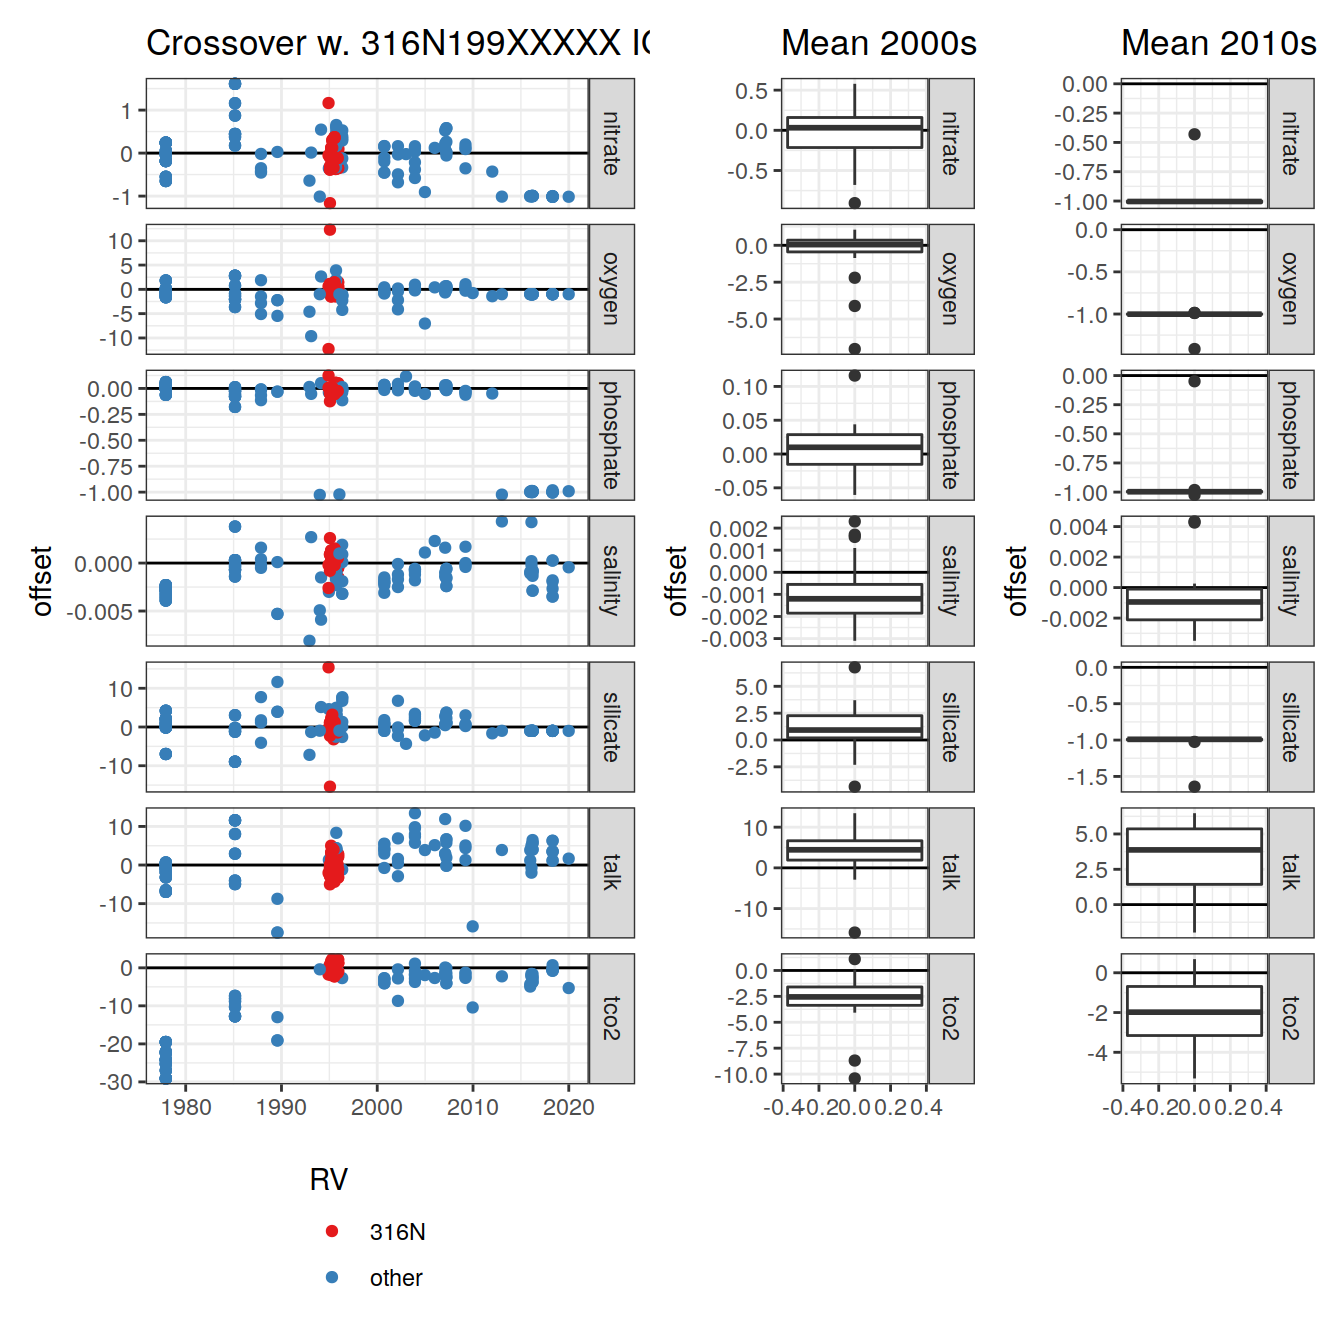
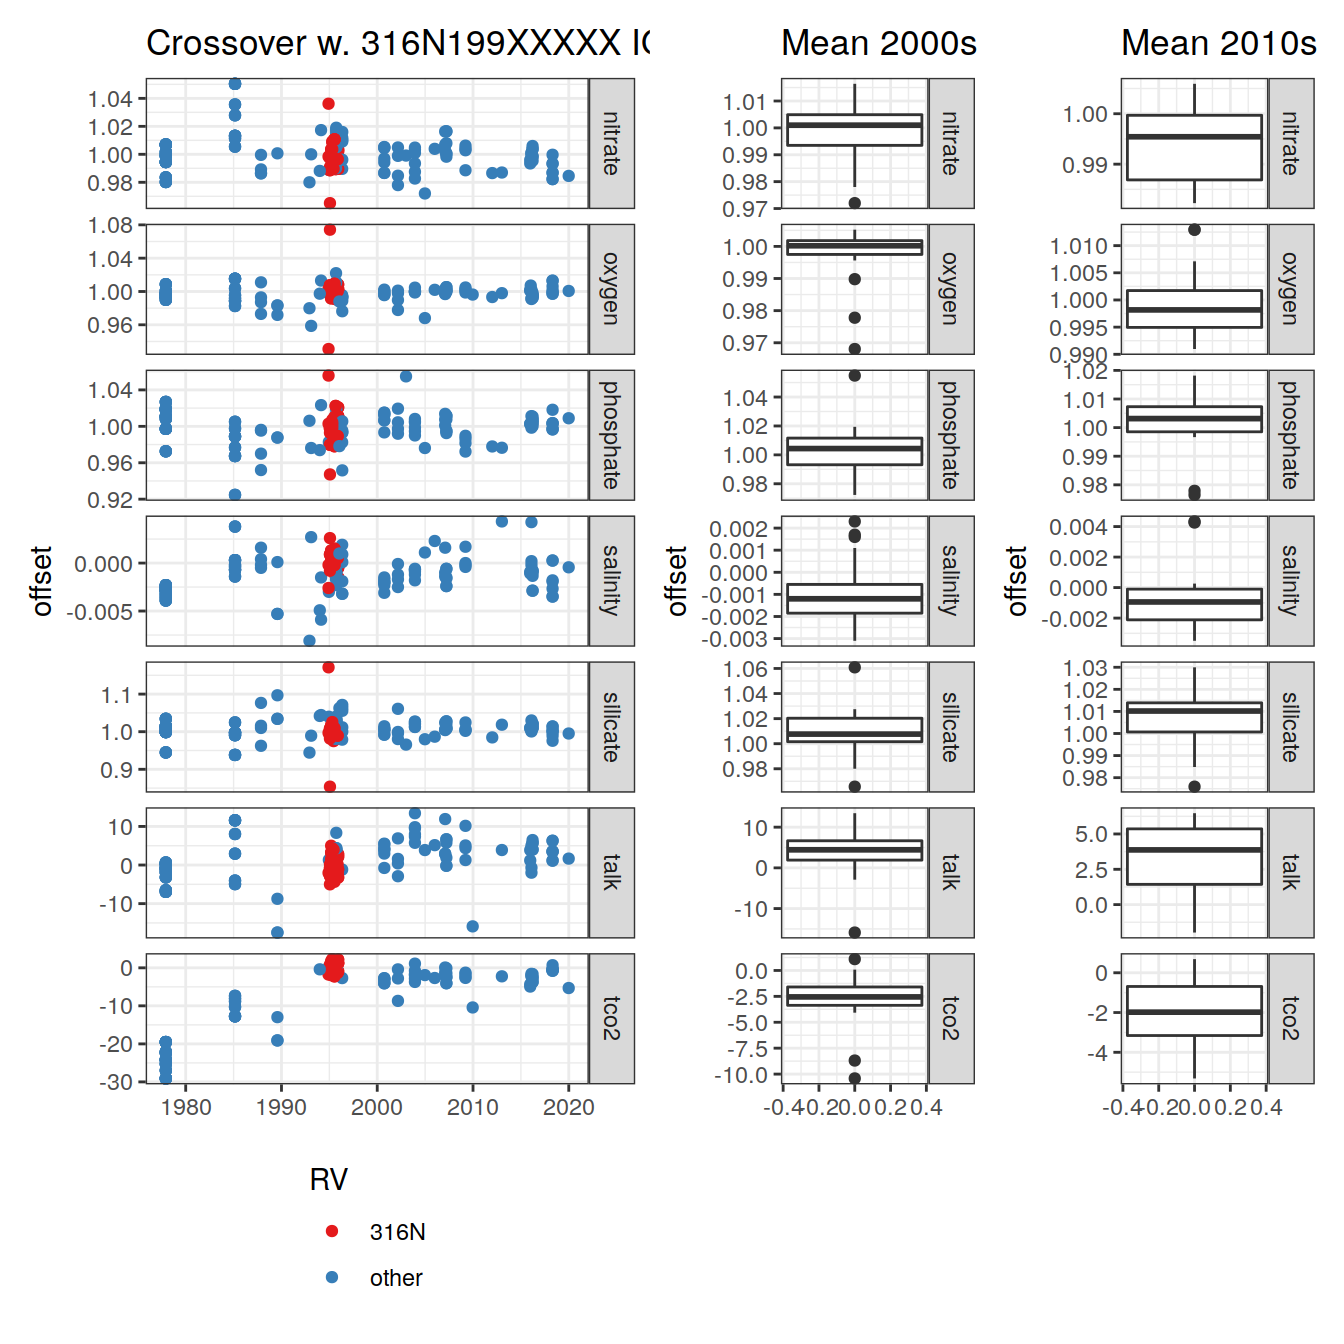
Build site.

diff --git a/docs/eMLR_data_preparation.html b/docs/eMLR_data_preparation.html
@@ -577,16 +577,16 @@ This reproducible <a href="http://rmarkdown.rstudio.com">R Markdown</a> analysis
 <div class="panel panel-default">
 <div class="panel-heading">
 <p class="panel-title">
-<a data-toggle="collapse" data-parent="#workflowr-checks" href="#strongRepositoryversionstrongahrefhttpsgithubcomjensdanielmuelleremlrobsvXXXtreeb60ab10c82c54f47ab30df260e1aa334e2e8d722targetblankb60ab10a"> <span class="glyphicon glyphicon-ok text-success" aria-hidden="true"></span> <strong>Repository version:</strong> <a href="https://github.com/jens-daniel-mueller/emlr_obs_v_XXX/tree/b60ab10c82c54f47ab30df260e1aa334e2e8d722" target="_blank">b60ab10</a> </a>
+<a data-toggle="collapse" data-parent="#workflowr-checks" href="#strongRepositoryversionstrongahrefhttpsgithubcomjensdanielmuelleremlrobsvXXXtreeddef4ccd8cf80e062397c9543407eb4933b5b121targetblankddef4cca"> <span class="glyphicon glyphicon-ok text-success" aria-hidden="true"></span> <strong>Repository version:</strong> <a href="https://github.com/jens-daniel-mueller/emlr_obs_v_XXX/tree/ddef4ccd8cf80e062397c9543407eb4933b5b121" target="_blank">ddef4cc</a> </a>
 </p>
 </div>
[2 lines of base64/hex data omitted]
 <div class="panel-body">
 <p>
 Great! You are using Git for version control. Tracking code development and connecting the code version to the results is critical for reproducibility.
 </p>
 <p>
-The results in this page were generated with repository version <a href="https://github.com/jens-daniel-mueller/emlr_obs_v_XXX/tree/b60ab10c82c54f47ab30df260e1aa334e2e8d722" target="_blank">b60ab10</a>. See the <em>Past versions</em> tab to see a history of the changes made to the R Markdown and HTML files.
+The results in this page were generated with repository version <a href="https://github.com/jens-daniel-mueller/emlr_obs_v_XXX/tree/ddef4ccd8cf80e062397c9543407eb4933b5b121" target="_blank">ddef4cc</a>. See the <em>Past versions</em> tab to see a history of the changes made to the R Markdown and HTML files.
 </p>
 <p>
 Note that you need to be careful to ensure that all relevant files for the analysis have been committed to Git prior to generating the results (you can use <code>wflow_publish</code> or <code>wflow_git_commit</code>). workflowr only checks the R Markdown file, but you know if there are other scripts or data files that it depends on. Below is the status of the Git repository when the results were generated:
@@ -639,6 +639,40 @@ Message
 </tr>
 </thead>
 <tbody>
+<tr>
+<td>
+Rmd
+</td>
+<td>
+<a href="https://github.com/jens-daniel-mueller/emlr_obs_v_XXX/blob/ddef4ccd8cf80e062397c9543407eb4933b5b121/analysis/eMLR_data_preparation.Rmd" target="_blank">ddef4cc</a>
+</td>
+<td>
+jens-daniel-mueller
+</td>
+<td>
+2021-12-09
+</td>
+<td>
+revised ratio crossover
+</td>
+</tr>
+<tr>
+<td>
+html
+</td>
+<td>
+<a href="https://rawcdn.githack.com/jens-daniel-mueller/emlr_obs_v_XXX/fb71774356cb16208c0690dcc6e0abf93ee6500b/docs/eMLR_data_preparation.html" target="_blank">fb71774</a>
+</td>
+<td>
+jens-daniel-mueller
+</td>
+<td>
+2021-12-09
+</td>
+<td>
+Build site.
+</td>
+</tr>
 <tr>
 <td>
 Rmd
@@ -7307,23 +7341,39 @@ unique(glodapv2_2021_xover$Parameter)</code></pre>
   )
 
 
-# merge crossover resutls
-
 glodapv2_2021_xover &lt;- glodapv2_2021_xover %&gt;% 
   rename(offset = Offset,
          offset_sd = Std,
          cruise_A = Cruise_A,
          cruise_B = Cruise_B)
 
-glodapv2_xover &lt;- glodapv2_xover %&gt;% 
+# Note: In the files provided by Steven von Heuven
+# the column names sigma_ratio and sigma_offset_sd were swapped
+
+glodapv2_xover_absolute &lt;- glodapv2_xover %&gt;% 
+  filter(parameter %in% c(&quot;salinity&quot;, &quot;talk&quot;, &quot;tco2&quot;)) %&gt;% 
   select(parameter,
          offset = sigma_offset,
-         offset_sd = sigma_offset_sd,
+         offset_sd = sigma_ratio,
          cruise_A = CruiseA_EXPOCODE,
          cruise_B = CruiseB_EXPOCODE)
 
+glodapv2_xover_ratio &lt;- glodapv2_xover %&gt;% 
+  filter(!(parameter %in% c(&quot;salinity&quot;, &quot;talk&quot;, &quot;tco2&quot;))) %&gt;% 
+  select(parameter,
+         offset = sigma_offset_sd,
+         offset_sd = sigma_ratio_sd,
+         cruise_A = CruiseA_EXPOCODE,
+         cruise_B = CruiseB_EXPOCODE)
 
-rm(glodapv2_xover_files, glodapv2_2021_xover_files)</code></pre>
+glodapv2_xover &lt;- bind_rows(
+  glodapv2_xover_absolute,
+  glodapv2_xover_ratio
+)
+
+
+rm(glodapv2_xover_files, glodapv2_2021_xover_files,
+   glodapv2_xover_absolute, glodapv2_xover_ratio)</code></pre>
 </div>
 <div id="others" class="section level2" number="2.6">
 <h2 number="2.6"><span class="header-section-number">2.6</span> Others</h2>
@@ -7592,7 +7642,7 @@ glodapv2_xover &lt;- glodapv2_xover  %&gt;%
   mutate(offset_adj = 
            if_else(parameter %in% c(&quot;salinity&quot;, &quot;talk&quot;, &quot;tco2&quot;),
                    offset + adjustment_A - adjustment_B,
-                   offset))
+                   offset * adjustment_A / adjustment_B))
 
 glodapv2_2021_xover &lt;- left_join(
   glodapv2_2021_xover,
@@ -7622,7 +7672,7 @@ glodapv2_2021_xover &lt;- glodapv2_2021_xover  %&gt;%
   mutate(offset_adj = 
            if_else(parameter %in% c(&quot;salinity&quot;, &quot;talk&quot;, &quot;tco2&quot;),
                    offset + adjustment_A,
-                   offset))
+                   offset * adjustment_A))
 
 
 xover &lt;- bind_rows(glodapv2_xover,
@@ -7644,8 +7694,16 @@ xover_IO_1990_B_rev &lt;- xover_IO_1990_B %&gt;%
   ) %&gt;%
   rename(cruise_B = cruise_A_back,
          adjustment_B = adjustment_A_back) %&gt;%
-  mutate(offset = -offset,
-         offset_adj = -offset_adj)
+  mutate(
+    offset = if_else(parameter %in% c(&quot;salinity&quot;, &quot;talk&quot;, &quot;tco2&quot;),
+                     -offset,
+                     1/offset),
+    offset_adj = if_else(
+      parameter %in% c(&quot;salinity&quot;, &quot;talk&quot;, &quot;tco2&quot;),
+      -offset_adj,
+      1/offset_adj
+    )
+  )
 
 xover_IO_1990 &lt;- bind_rows(xover_IO_1990_A,
                            xover_IO_1990_B_rev)
@@ -7663,7 +7721,6 @@ xover_IO_1990 &lt;- xover_IO_1990 %&gt;%
 
 p_crossover_ts &lt;- xover_IO_1990 %&gt;%
   ggplot(aes(dateB, offset, col = RV)) +
-  geom_hline(yintercept = 0) +
   geom_point() +
   scale_color_brewer(palette = &quot;Set1&quot;) +
   facet_grid(parameter ~ ., scales = &quot;free_y&quot;) +
@@ -7677,7 +7734,6 @@ p_crossover_ts &lt;- xover_IO_1990 %&gt;%
 p_crossover_2000 &lt;- xover_IO_1990 %&gt;%
   filter(year(dateB) &gt;= 2000, year(dateB) &lt; 2010) %&gt;%
   ggplot(aes(y = offset)) +
-  geom_hline(yintercept = 0) +
   geom_boxplot() +
   labs(title = &quot;Mean 2000s&quot;) +
   facet_grid(parameter ~ ., scales = &quot;free_y&quot;)
@@ -7685,7 +7741,6 @@ p_crossover_2000 &lt;- xover_IO_1990 %&gt;%
 p_crossover_2010 &lt;- xover_IO_1990 %&gt;%
   filter(year(dateB) &gt;= 2010, year(dateB) &lt; 2020) %&gt;%
   ggplot(aes(y = offset)) +
-  geom_hline(yintercept = 0) +
   geom_boxplot() +
   labs(title = &quot;Mean 2010s&quot;) +
   facet_grid(parameter ~ ., scales = &quot;free_y&quot;)
@@ -7715,6 +7770,17 @@ Date
 </tr>
 </thead>
 <tbody>
+<tr>
+<td>
+<a href="https://github.com/jens-daniel-mueller/emlr_obs_v_XXX/blob/fb71774356cb16208c0690dcc6e0abf93ee6500b/docs/figure/eMLR_data_preparation.Rmd/crossover_analysis_data-2.png" target="_blank">fb71774</a>
+</td>
+<td>
+jens-daniel-mueller
+</td>
+<td>
+2021-12-09
+</td>
+</tr>
 <tr>
 <td>
 <a href="https://github.com/jens-daniel-mueller/emlr_obs_v_XXX/blob/814f196e7e243c04e8993d7bc4468f8119b89656/docs/figure/eMLR_data_preparation.Rmd/crossover_analysis_data-2.png" target="_blank">814f196</a>
@@ -7811,7 +7877,6 @@ jens-daniel-mueller
 
 p_crossover_ts &lt;- xover_IO_1990 %&gt;%
   ggplot(aes(dateB, offset_adj, col = RV)) +
-  geom_hline(yintercept = 0) +
   geom_point() +
   scale_color_brewer(palette = &quot;Set1&quot;) +
   facet_grid(parameter ~ ., scales = &quot;free_y&quot;) +
@@ -7825,7 +7890,6 @@ p_crossover_ts &lt;- xover_IO_1990 %&gt;%
 p_crossover_2000 &lt;- xover_IO_1990 %&gt;%
   filter(year(dateB) &gt;= 2000, year(dateB) &lt; 2010) %&gt;%
   ggplot(aes(y = offset_adj)) +
-  geom_hline(yintercept = 0) +
   geom_boxplot() +
   labs(title = &quot;Mean 2000s&quot;) +
   facet_grid(parameter ~ ., scales = &quot;free_y&quot;)
@@ -7833,7 +7897,6 @@ p_crossover_2000 &lt;- xover_IO_1990 %&gt;%
 p_crossover_2010 &lt;- xover_IO_1990 %&gt;%
   filter(year(dateB) &gt;= 2010, year(dateB) &lt; 2020) %&gt;%
   ggplot(aes(y = offset_adj)) +
-  geom_hline(yintercept = 0) +
   geom_boxplot() +
   labs(title = &quot;Mean 2010s&quot;) +
   facet_grid(parameter ~ ., scales = &quot;free_y&quot;)
@@ -7863,6 +7926,17 @@ Date
 </tr>
 </thead>
 <tbody>
+<tr>
+<td>
+<a href="https://github.com/jens-daniel-mueller/emlr_obs_v_XXX/blob/fb71774356cb16208c0690dcc6e0abf93ee6500b/docs/figure/eMLR_data_preparation.Rmd/crossover_analysis_data-3.png" target="_blank">fb71774</a>
+</td>
+<td>
+jens-daniel-mueller
+</td>
+<td>
+2021-12-09
+</td>
+</tr>
 <tr>
 <td>
 <a href="https://github.com/jens-daniel-mueller/emlr_obs_v_XXX/blob/814f196e7e243c04e8993d7bc4468f8119b89656/docs/figure/eMLR_data_preparation.Rmd/crossover_analysis_data-3.png" target="_blank">814f196</a>
@@ -7959,31 +8033,102 @@ jens-daniel-mueller
 
 
 
-# p_adjustment_A_ts &lt;- xover_IO_1990 %&gt;%
-#   distinct(cruise_A, cruise_B, first_station_A, first_station_B,
-#            dateB, adjustment_A, parameter, RV) %&gt;%
-#   ggplot(aes(dateB, adjustment_A, col=RV)) +
-#   geom_point() +
-#   scale_color_brewer(palette = &quot;Set1&quot;) +
-#   facet_grid(parameter~., scales = &quot;free_y&quot;) +
-#   labs(title = &quot;Crossover with cruises 316N199XXXXX from IO&quot;) +
-#   theme(legend.position = &quot;left&quot;,
-#         axis.title.x = element_blank())
-#
-# p_adjustment_A_ts
-#
-# p_adjustment_B_ts &lt;- xover_IO_1990 %&gt;%
-#   distinct(cruise_A, cruise_B, first_station_B, first_station_B,
-#            dateB, adjustment_B, parameter, RV) %&gt;%
-#   ggplot(aes(dateB, adjustment_B, col=RV)) +
-#   geom_point() +
-#   scale_color_brewer(palette = &quot;Set1&quot;) +
-#   facet_grid(parameter~., scales = &quot;free_y&quot;) +
-#   labs(title = &quot;Crossover with cruises 316N199XXXXX from IO&quot;) +
-#   theme(legend.position = &quot;left&quot;,
-#         axis.title.x = element_blank())
-#
-# p_adjustment_B_ts</code></pre>
+p_adjustment_A_ts &lt;- xover_IO_1990 %&gt;%
+  distinct(cruise_A, cruise_B, first_station_A, first_station_B,
+           dateB, adjustment_A, parameter, RV) %&gt;%
+  ggplot(aes(dateB, adjustment_A, col=RV)) +
+  geom_point() +
+  scale_color_brewer(palette = &quot;Set1&quot;) +
+  facet_grid(parameter~., scales = &quot;free_y&quot;) +
+  labs(title = &quot;Crossover with cruises 316N199XXXXX from IO&quot;) +
+  theme(legend.position = &quot;left&quot;,
+        axis.title.x = element_blank())
+
+p_adjustment_A_ts</code></pre>
+<p><img src="figure/eMLR_data_preparation.Rmd/crossover_analysis_data-4.png" width="672" style="display: block; margin: auto;" /></p>
+<p>
+<button type="button" class="btn btn-default btn-xs btn-workflowr btn-workflowr-fig" data-toggle="collapse" data-target="#fig-crossover_analysis_data-4">
+Past versions of crossover_analysis_data-4.png
+</button>
+</p>
+<div id="fig-crossover_analysis_data-4" class="collapse">
+<div class="table-responsive">
+<table class="table table-condensed table-hover">
+<thead>
+<tr>
+<th>
+Version
+</th>
+<th>
+Author
+</th>
+<th>
+Date
+</th>
+</tr>
+</thead>
+<tbody>
+<tr>
+<td>
+<a href="https://github.com/jens-daniel-mueller/emlr_obs_v_XXX/blob/a988b6e3b5420ebb538e2b9e2fc61a1db29e26d5/docs/figure/eMLR_data_preparation.Rmd/crossover_analysis_data-4.png" target="_blank">a988b6e</a>
+</td>
+<td>
+jens-daniel-mueller
+</td>
+<td>
+2021-12-08
+</td>
+</tr>
+<tr>
+<td>
+<a href="https://github.com/jens-daniel-mueller/emlr_obs_v_XXX/blob/2fe7f8efa86df0649e694cd5b22a28f2ba47cf83/docs/figure/eMLR_data_preparation.Rmd/crossover_analysis_data-4.png" target="_blank">2fe7f8e</a>
+</td>
+<td>
+jens-daniel-mueller
+</td>
+<td>
+2021-12-08
+</td>
+</tr>
+<tr>
+<td>
+<a href="https://github.com/jens-daniel-mueller/emlr_obs_v_XXX/blob/a768c5d95bf1db62582b34a3bd752e3b58c14db9/docs/figure/eMLR_data_preparation.Rmd/crossover_analysis_data-4.png" target="_blank">a768c5d</a>
+</td>
+<td>
+jens-daniel-mueller
+</td>
+<td>
+2021-12-07
+</td>
+</tr>
+<tr>
+<td>
+<a href="https://github.com/jens-daniel-mueller/emlr_obs_v_XXX/blob/ab3079bb276333be9732691607dad94417702678/docs/figure/eMLR_data_preparation.Rmd/crossover_analysis_data-4.png" target="_blank">ab3079b</a>
+</td>
+<td>
+jens-daniel-mueller
+</td>
+<td>
+2021-12-07
+</td>
+</tr>
+</tbody>
+</table>
+</div>
+</div>
+<pre class="r"><code>p_adjustment_B_ts &lt;- xover_IO_1990 %&gt;%
+  distinct(cruise_A, cruise_B, first_station_B, first_station_B,
+           dateB, adjustment_B, parameter, RV) %&gt;%
+  ggplot(aes(dateB, adjustment_B, col=RV)) +
+  geom_point() +
+  scale_color_brewer(palette = &quot;Set1&quot;) +
+  facet_grid(parameter~., scales = &quot;free_y&quot;) +
+  labs(title = &quot;Crossover with cruises 316N199XXXXX from IO&quot;) +
+  theme(legend.position = &quot;left&quot;,
+        axis.title.x = element_blank())
+
+p_adjustment_B_ts</code></pre>
+<p><img src="figure/eMLR_data_preparation.Rmd/crossover_analysis_data-5.png" width="672" style="display: block; margin: auto;" /></p>
 <pre class="r"><code>IO_1990_expocodes &lt;- GLODAP %&gt;%
   filter(str_detect(cruise_expocode, &quot;316N199&quot;) &amp;
            basin_AIP == &quot;Indian&quot; &amp;
